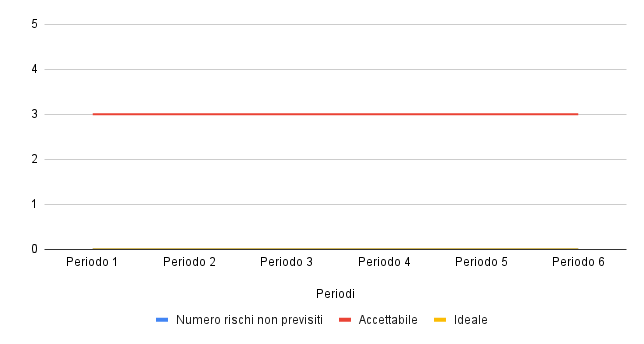
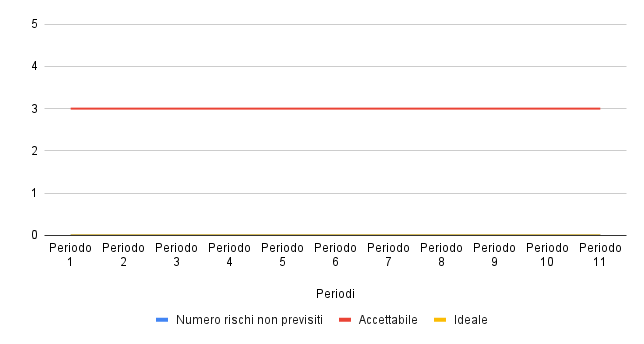
Aggionamento RNP

diff --git a/PB/Documentazione Esterna/Piano_di_Qualifica.tex b/PB/Documentazione Esterna/Piano_di_Qualifica.tex
@@ -814,7 +814,7 @@ concentrati i maggiori sforzi da parte del gruppo di correggere le imprecisioni 
 
 
 \subsection{Qualità di processo - Gestione dei processi}
-\subsubsection{MPC16 - Rischi non previsti}%TODO
+\subsubsection{MPC16 - Rischi non previsti}
 
 \begin{figure}[H]
   \centering
@@ -823,12 +823,11 @@ concentrati i maggiori sforzi da parte del gruppo di correggere le imprecisioni 
   \label{fig:RNPchart}
 \end{figure}
 
-% da rivedere forse. Non so se davvero possiamo dire di non averne incontrati
 \textbf{RTB}: Nel corso del progetto il team ha senz'altro avuto modo di affrontare svariati dei rischi emersi durante l'analisi dei rischi, tuttavia non sono stati
 riscontrati rischi non previsti nel corso dei primi sei periodi del progetto.
 
 \noindent
-\textbf{PB}:
+\textbf{PB}: Anche durante la seconda fase del progetto il gruppo non ha riscontrato alcun rischio non previsto.\\
 
 
 \subsubsection{MPC17 - Efficienza temporale (ET)}%TODO
